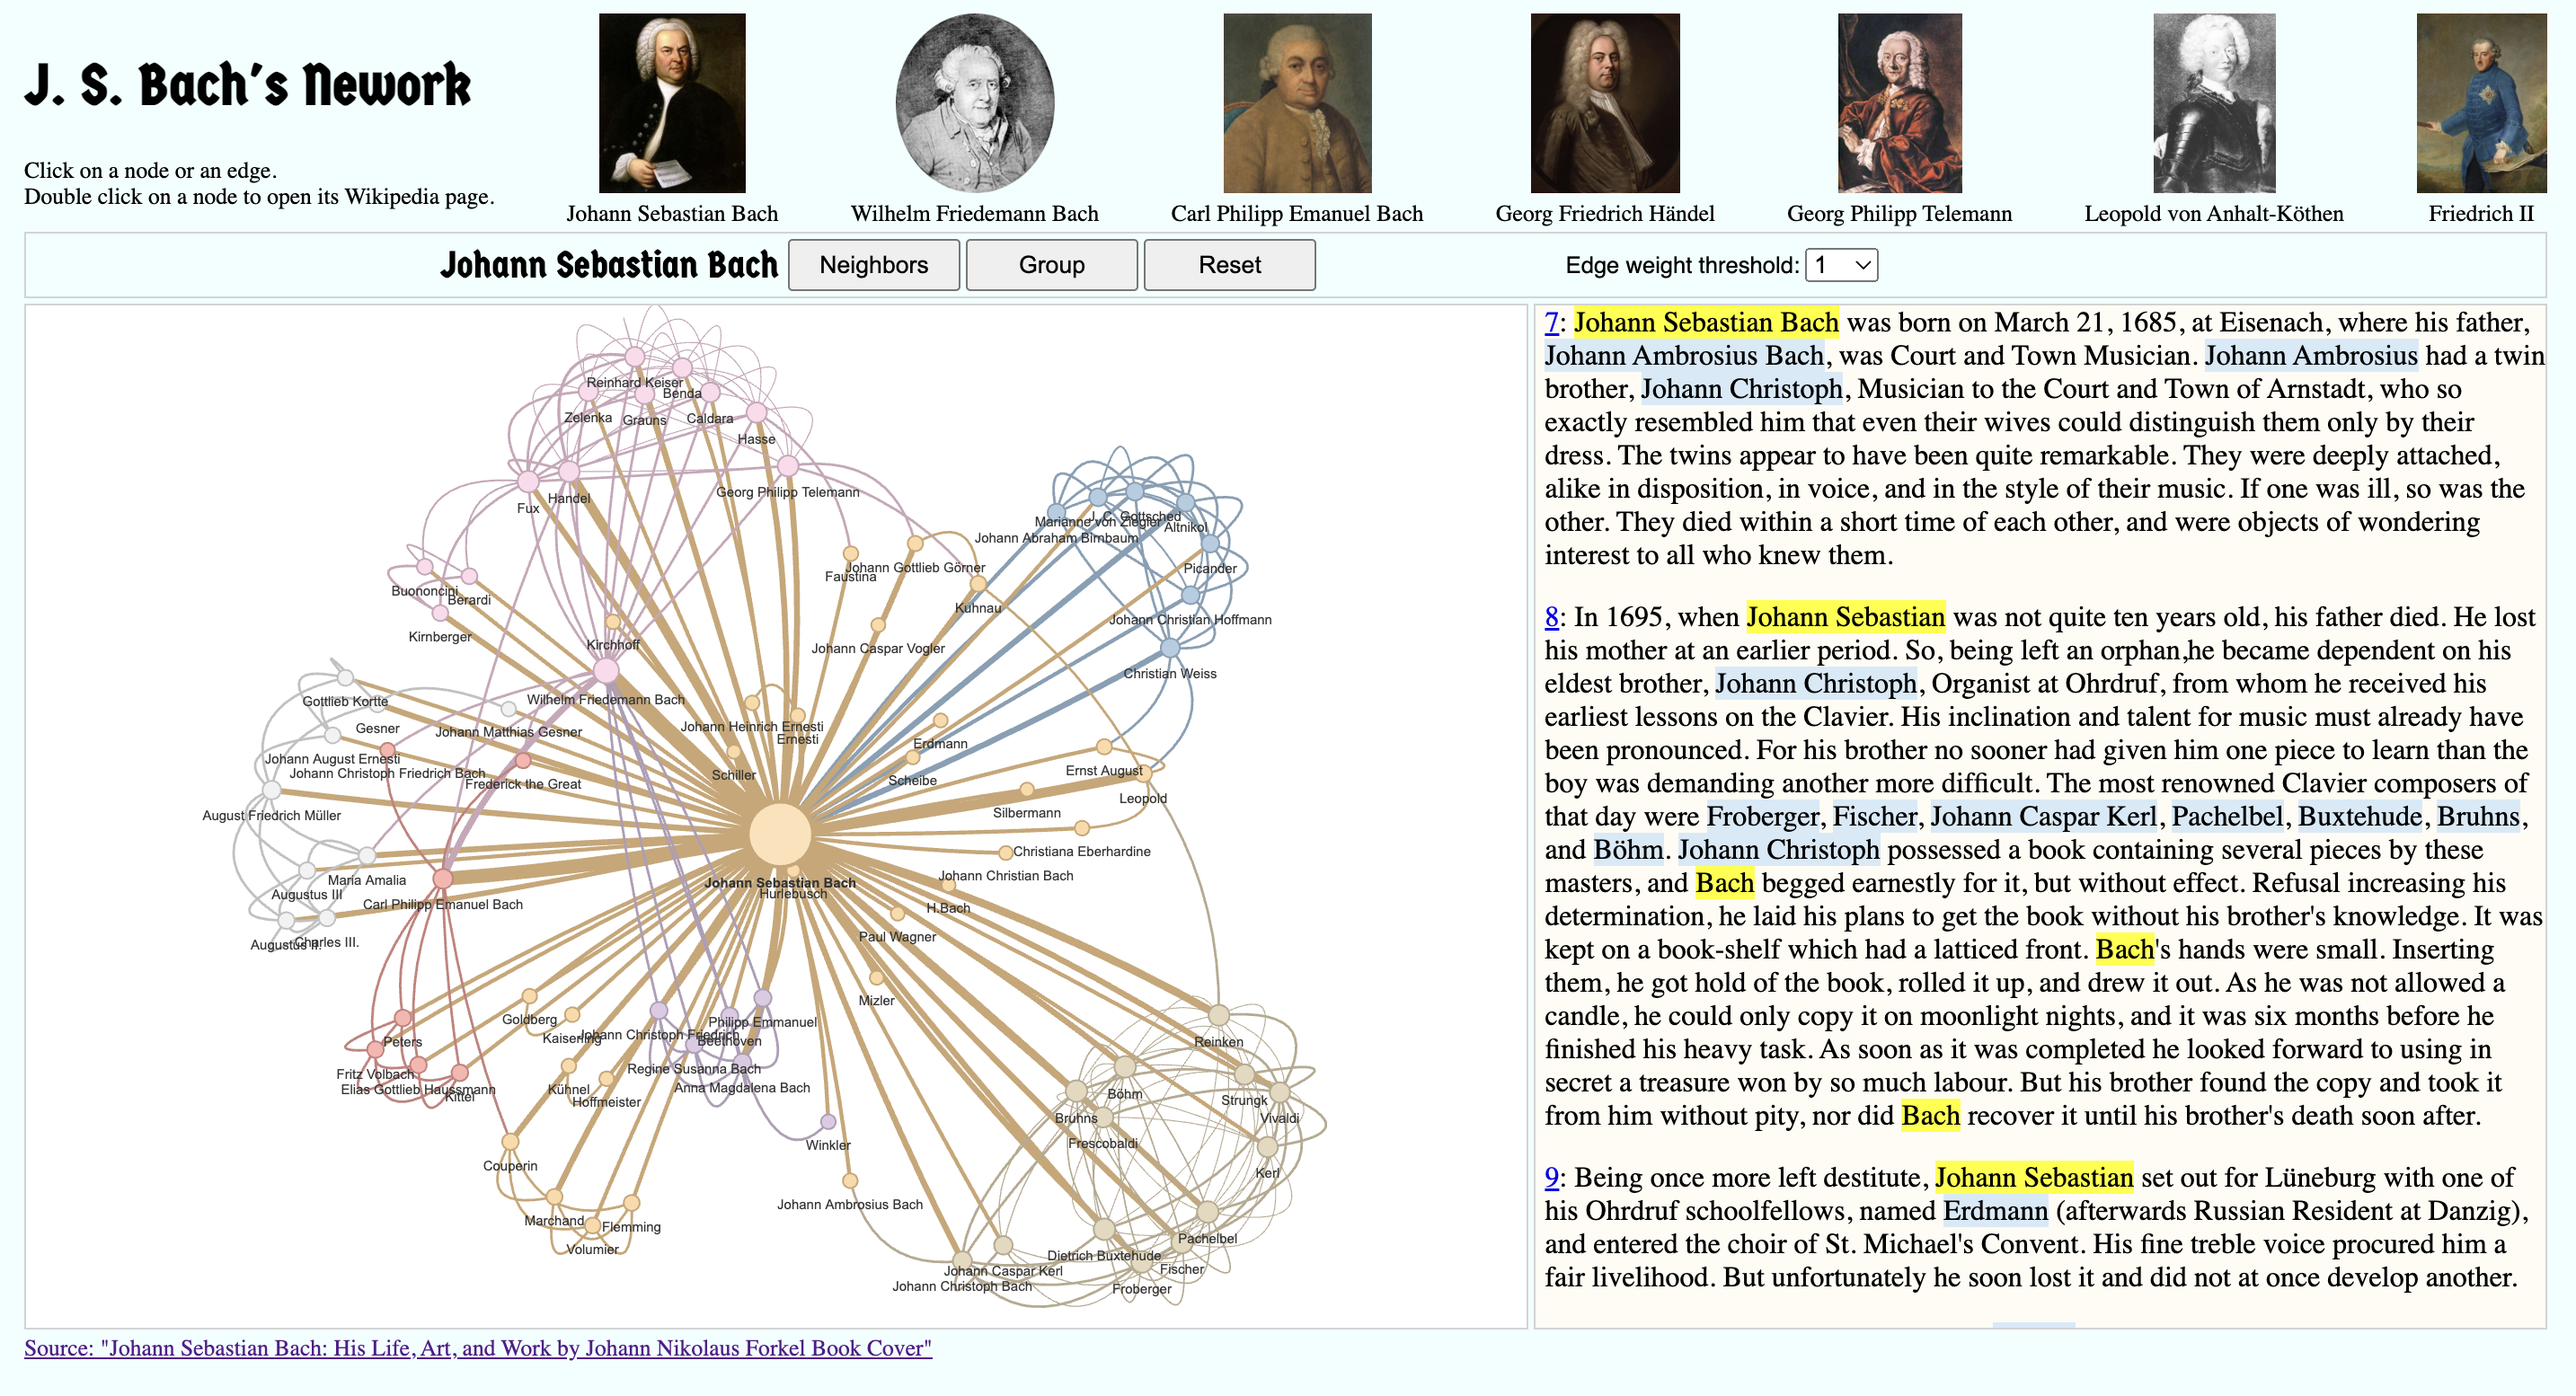
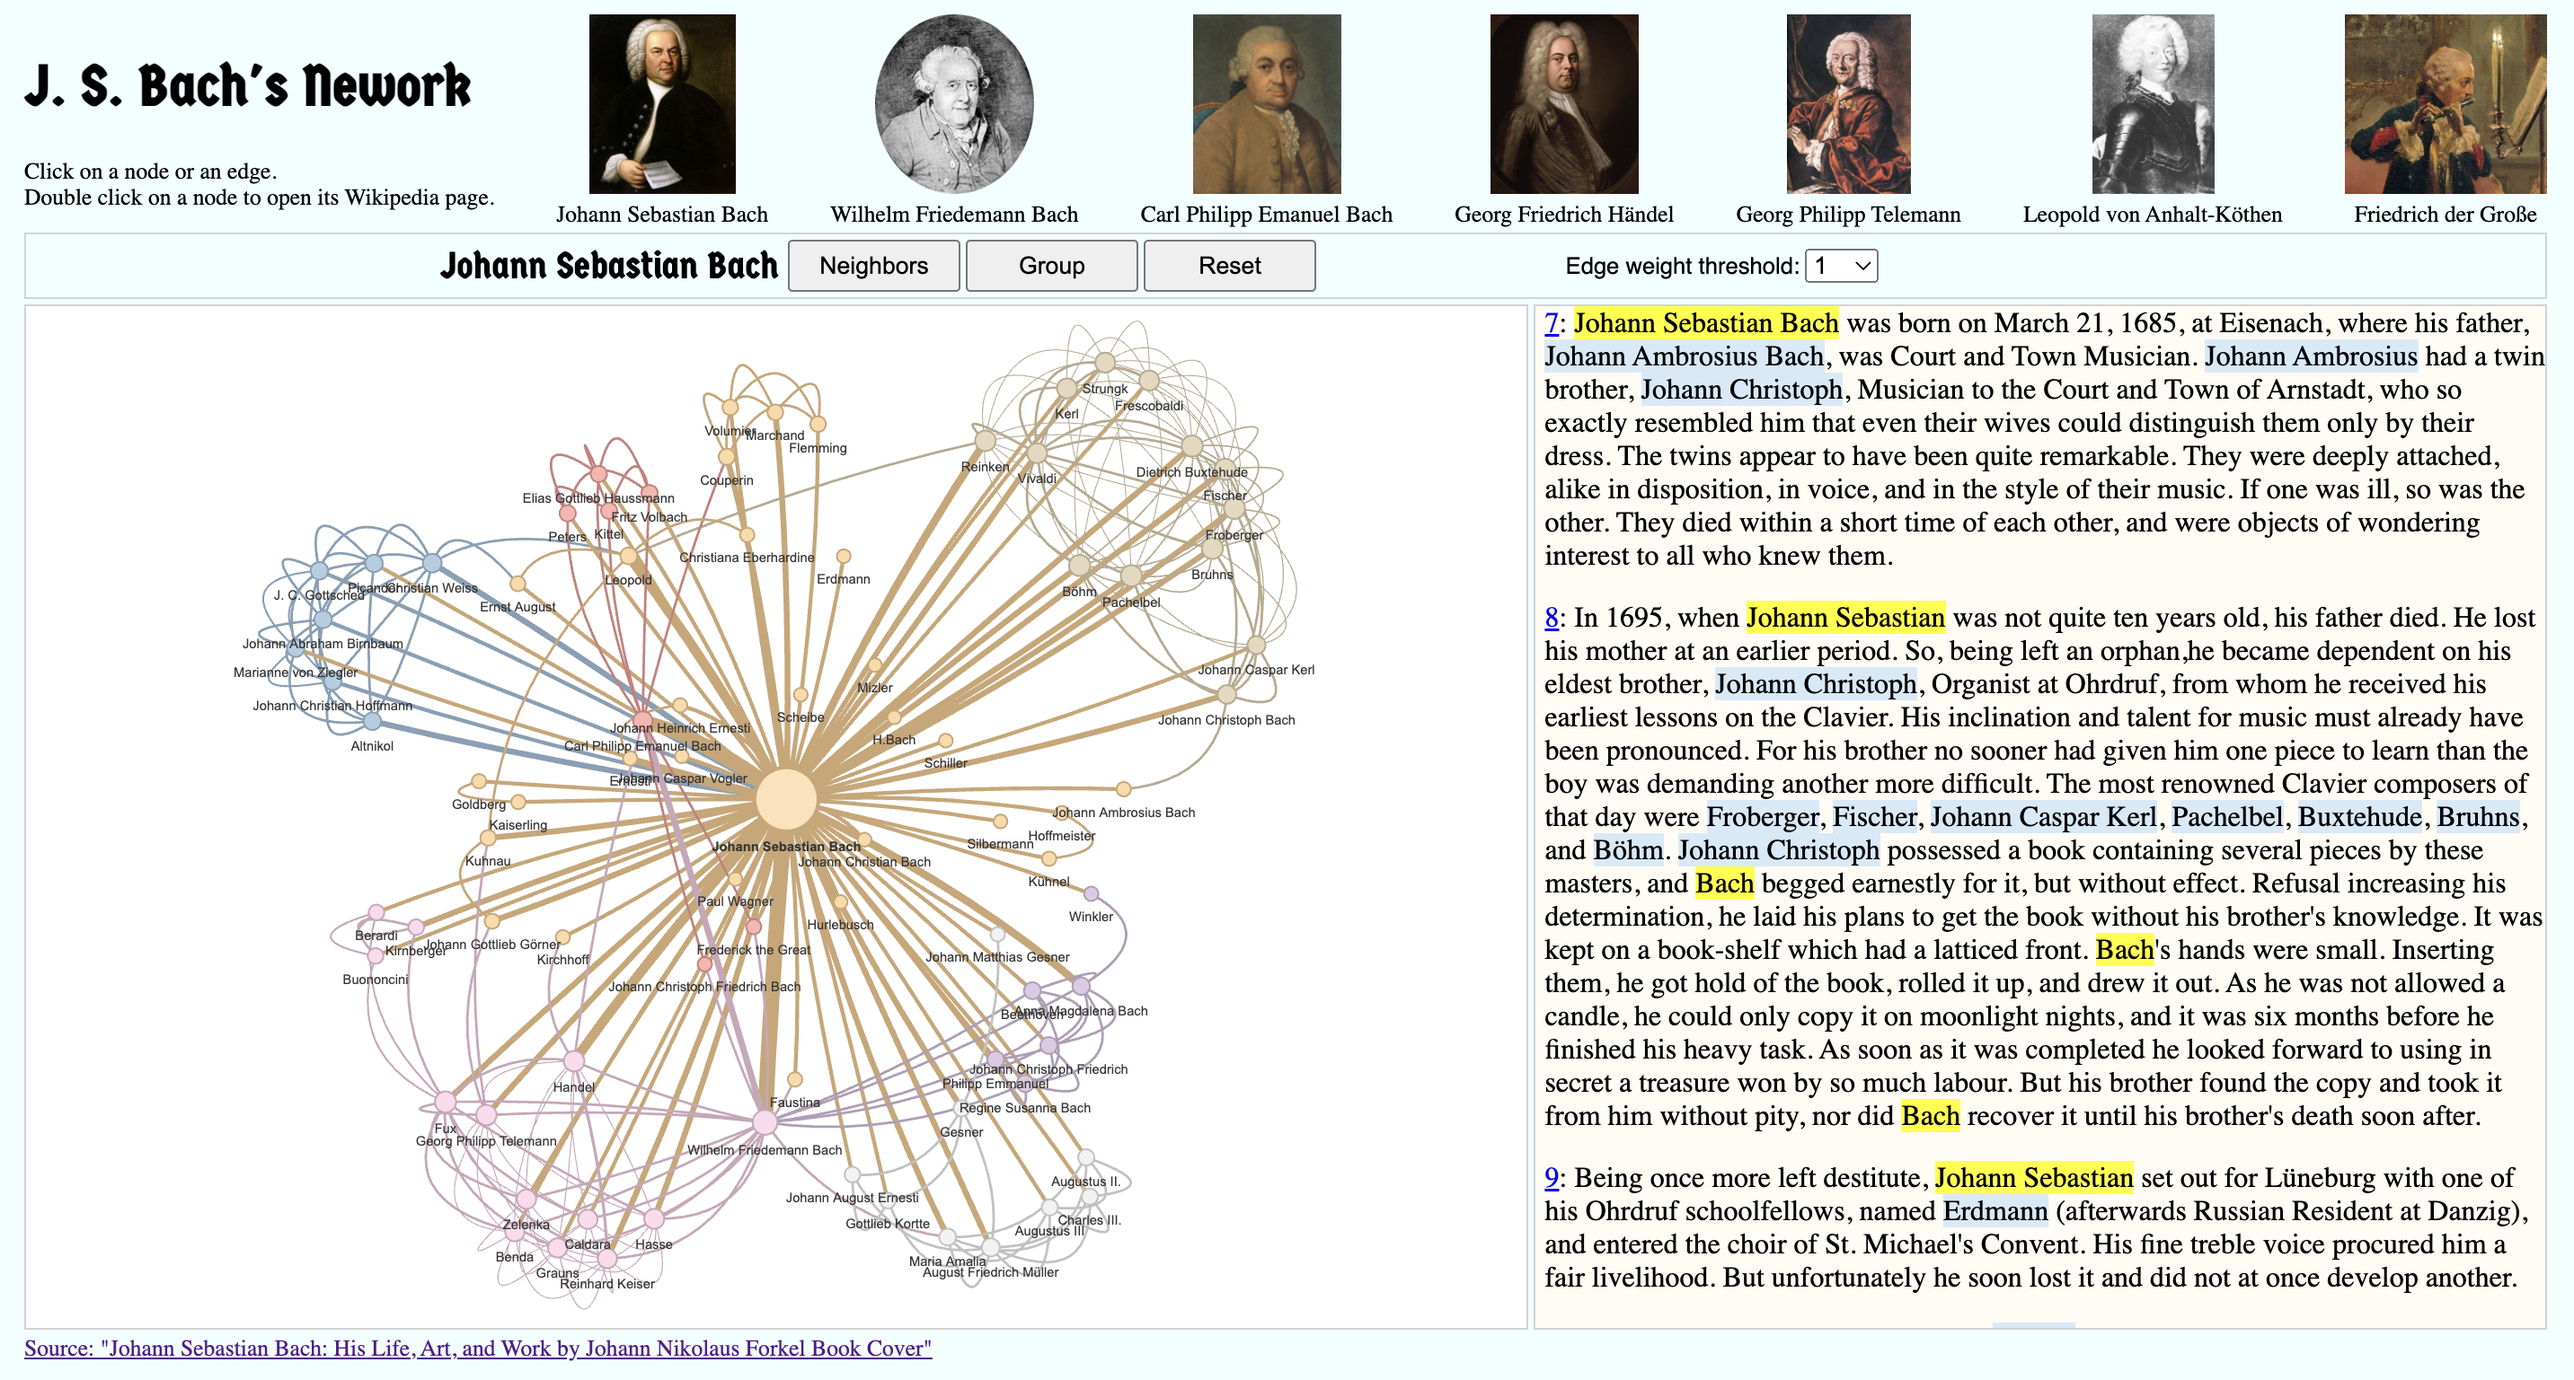
update

Changed region(s): [[0.0, 0.0, 0.9941, 0.9993], [0.1243, 0.0312, 0.1864, 0.0937], [0.0311, 0.0312, 0.0932, 0.0937]]

diff --git a/docs/bach_network.html b/docs/bach_network.html
@@ -61,8 +61,8 @@
         <div>Leopold von Anhalt-Köthen</div>
       </div>
       <div class="portrait">
-        <img src="portrait/Friedrich II.jpg">
-        <div>Friedrich II</div>
+        <img src="portrait/Adolph_Menzel_-_Flötenkonzert_Friedrichs_des_Großen_in_Sanssouci_-_Google_Art_Project_(cropped).jpg">
+        <div>Friedrich der Große</div>
       </div>
     </div>
 
